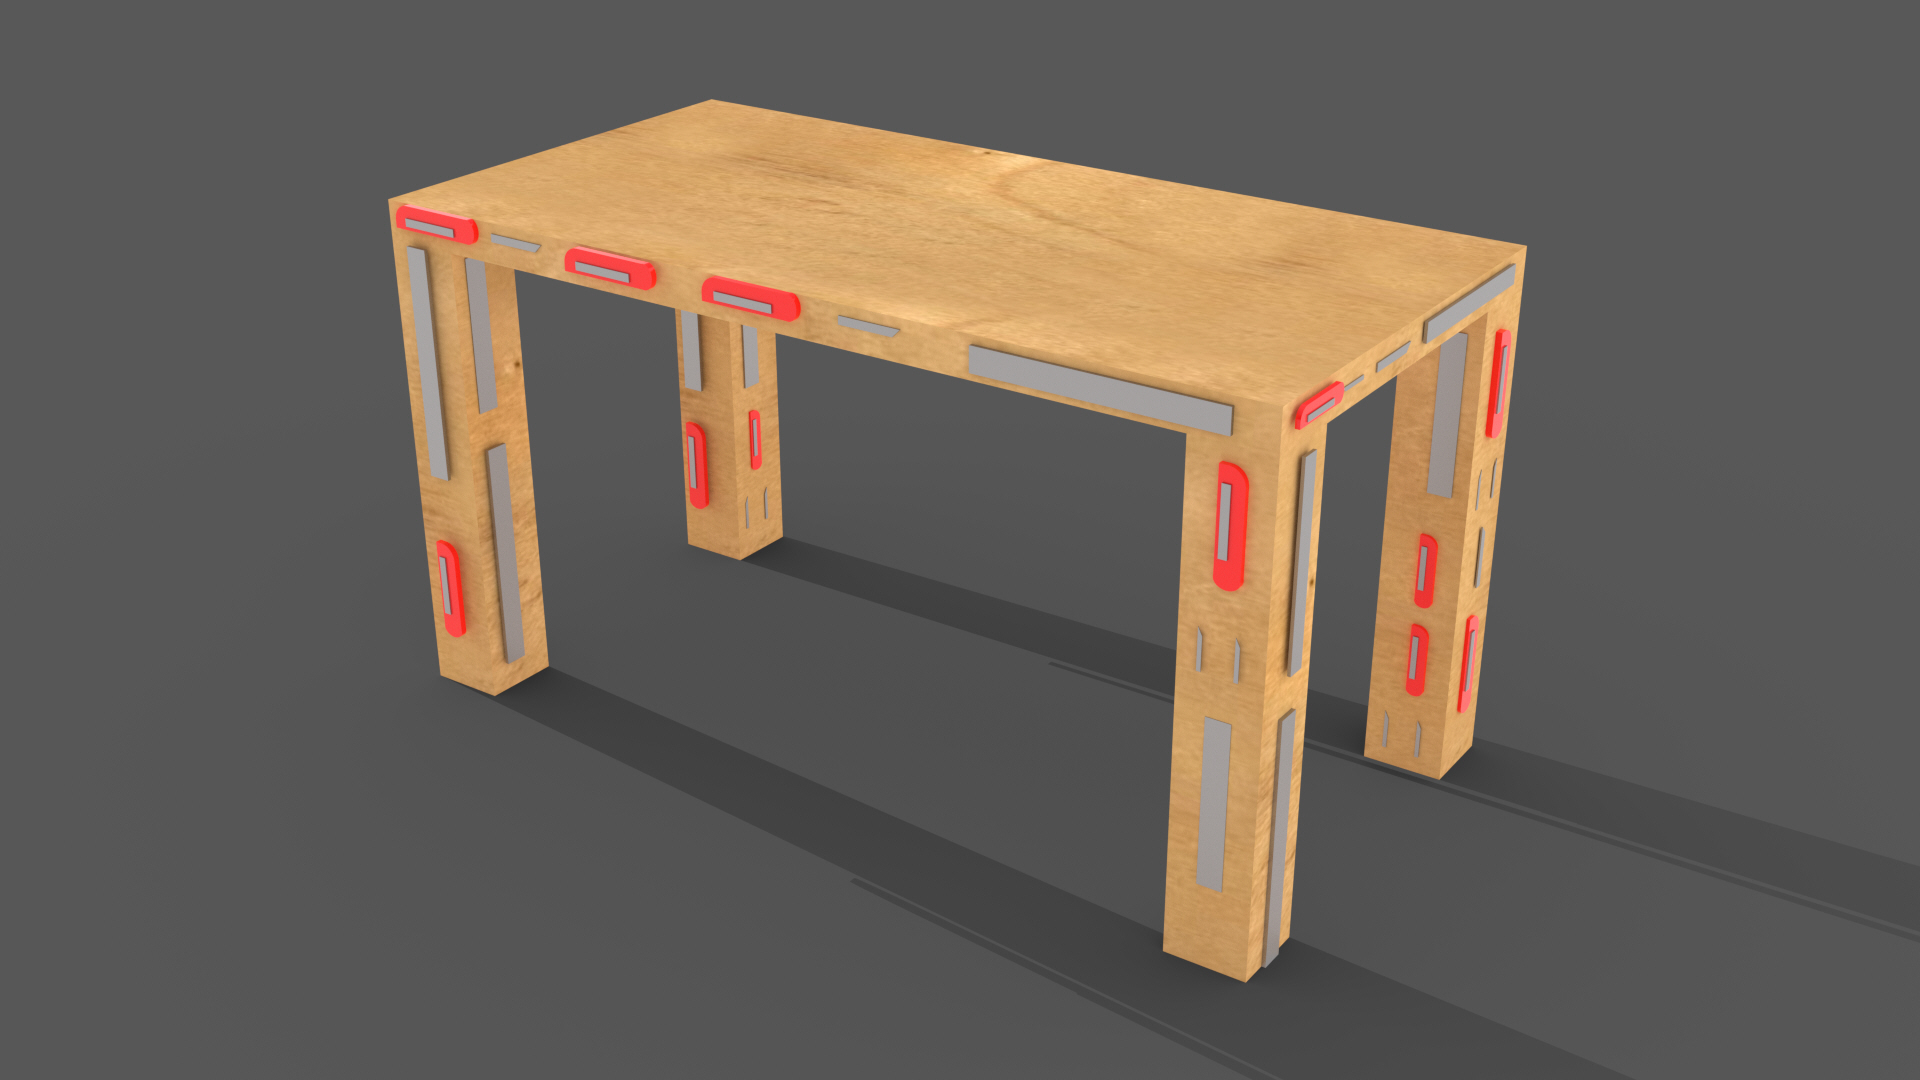
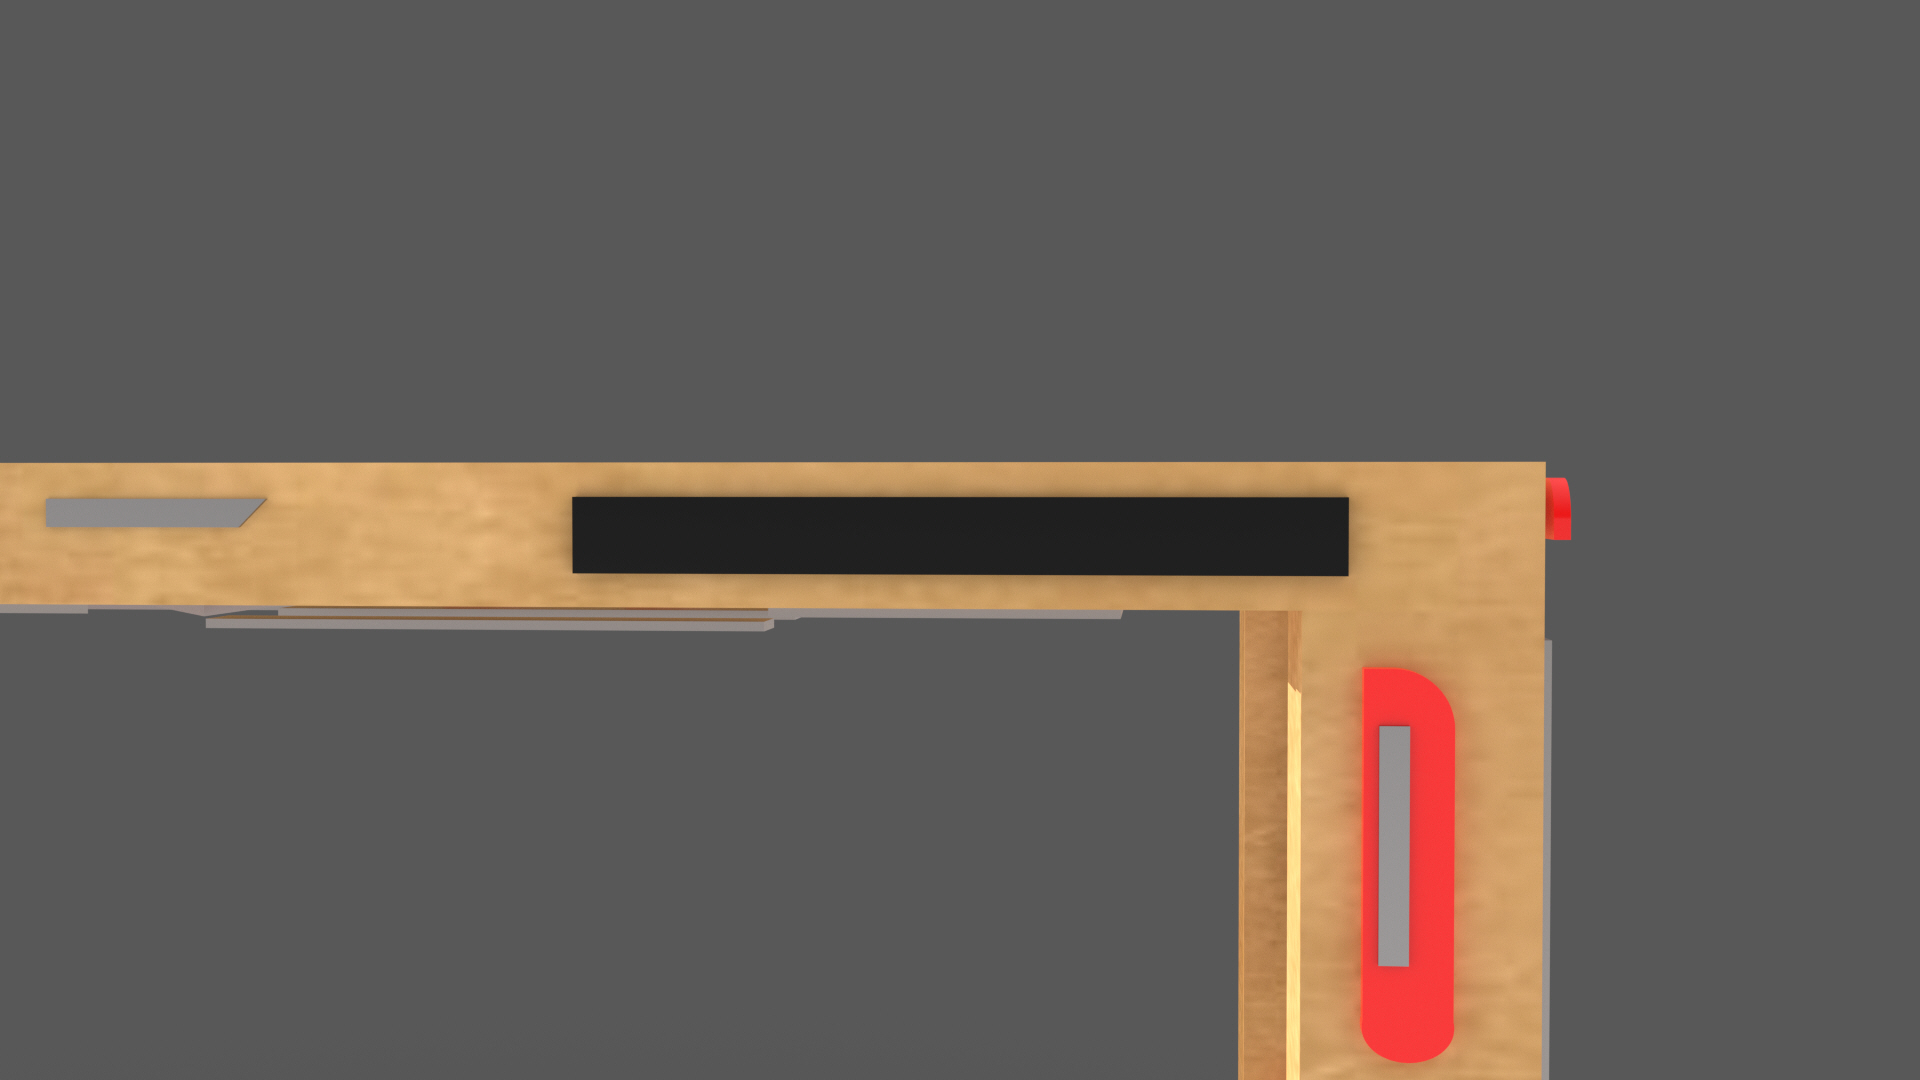
9

diff --git a/docs/encargo-1.2/index.html b/docs/encargo-1.2/index.html
@@ -4,7 +4,7 @@
 <head>
   <meta charset="utf-8">
   <meta http-equiv="x-ua-compatible" content="ie=edge">
-  <title>Encargo 0 - María Ignacia Weber - Taller de Productos 2021</title>
+  <title>Encargo 1.2 - María Ignacia Weber - Taller de Productos 2021</title>
   <meta name="viewport" content="width=device-width, initial-scale=1">
   
   <link rel="icon" href="https://ignaciaw.github.io/favicon.png">
@@ -90,7 +90,7 @@
   <h4>Docs</h4>
   <ul>
     
-    <li class="active ">
+    <li class="">
       <a href="https://ignaciaw.github.io/docs/encargo-0/">Encargo 0</a>
     </li>
     
@@ -98,7 +98,7 @@
       <a href="https://ignaciaw.github.io/docs/encargo-1/">Encargo 1</a>
     </li>
     
-    <li class="">
+    <li class="active ">
       <a href="https://ignaciaw.github.io/docs/encargo-1.2/">Encargo 1.2</a>
     </li>
     
@@ -117,63 +117,46 @@
         </div>
         <div class="col-12 col-md-9">
           
-<h1 class="title">Encargo 0</h1>
+<h1 class="title">Encargo 1.2</h1>
 <div class="content ">
-  <p>A continuación mostrare algunos proyectos personales que más me han gustado</p>
-<h1 id="mapa-mental">Mapa Mental</h1>
-<p>Descripción:
-En este mapa mental debía mostrar como soy, por lo que hice dos palmeras unidas desmostrando asi mis dos personalidades las cuales las uno a las carreras que estoy estudiando.</p>
+  <h1 id="propuesta">Propuesta</h1>
 <p><img src="/img/Mapamental.jpg" alt="Imagen Simple"></p>
-<h1 id="rube-goldberg">Rube Goldberg</h1>
-<p>Descripción:
-Este fue un encargo el cual lo debía hacer en el programa Unity, donde tenia que hacer un circuito de Rube Goldberg.
-<a href="https://youtu.be/2HsqguD7kSE">https://youtu.be/2HsqguD7kSE</a>
-
+<p>Mi propuesta es esta mesa que a través de láminas magnéticas puestas por dentro logre sujetar distintos materiales necesarios a la hora de hacer proyectos físicos. Es así como se crea esta nueva mesa de trabajo la cual contendrá distintos materiales como, cartoneros, cuchillas, destornilladores, reglas, entre otras cosas, siendo elección de cada individuo lo que ira poniendo, solo necesitando que este material sea compatible con dicha lamina magnética para que así los materiales se agarren.
+La inspiración a de este proyecto viene de la mano con la comodidad y la creación de una real mesa de trabajo, ya que, si bien existen mesas de trabajo, ni una se ve como una, por tanto, lo que quiero lograr con este proyecto es que realmente se vea como una y además que ayude a la hora de trabajar para que uno no pierda tiempo yendo a buscar dichos materiales a distintos lugares, sino que todo esté en esta mesa.
+Esta mesa servirá como mesa de trabajo como también un organizador, debido a que en las patas y en la parte inferior de esta mesa se podrá guardar cada herramienta que se usará. En la parte superior de la mesa no ira ni una lámina magnética por el hecho de que esta mesa se ocupara para hacer distintas cosas y si hay laminas ahí se podrán pegar los distintos materiales a ocupar como otras cosas, volviéndose incomoda a la hora de ocuparla.
+Nada de esta mesa se ocultará, dado que no es su funcionalidad, sin embargo, es una mesa y se podrá ocupar de distintas maneras como el usuario lo decida, por ejemplo, en un taller, en la cocina, entre otras partes, lográndose así la bi o tri funcionalidad de esta mesa de trabajo, la cual se acomoda a los distintos individuos que la ocupen.</p>
+<h1 id="materiales">Materiales</h1>
+<h1 id="lámina-magnética">Lámina magnética</h1>
+<p><img src="/img/lamina.jpg" alt="Imagen Simple">
+Su funcionalidad será fundamental, dado que gracias a esta es que se sugetaran los materiales a la mesa.</p>
+<h1 id="mesa-de-madera">Mesa de madera</h1>
+<p><img src="/img/mesas.jpg" alt="Imagen Simple">
+La base de todo será una mesa de madera para trabajar, la que se podra cortar, ensuciar, y más cosas.</p>
+<h1 id="herramientas">Herramientas</h1>
+<p>
 <link rel="stylesheet" href="/css/hugo-easy-gallery.css" />
 
 <div class="gallery caption-position-bottom caption-effect-slide hover-effect-zoom hover-transition" itemscope itemtype="http://schema.org/ImageGallery">
 				<div class="box">
 				  <figure itemprop="associatedMedia" itemscope itemtype="http://schema.org/ImageObject">
-				    <div class="img" style="background-image: url('https://ignaciaw.github.io//img/Rube//1.PNG');" >
-				      <img itemprop="thumbnail" src="https://ignaciaw.github.io//img/Rube//1.PNG" alt="1st" />
+				    <div class="img" style="background-image: url('https://ignaciaw.github.io//img/Herramientas//reg.jpg');" >
+				      <img itemprop="thumbnail" src="https://ignaciaw.github.io//img/Herramientas//reg.jpg" alt="Reg" />
 				    </div>
 			      <figcaption>
-		          <p>1st</p>
+		          <p>Reg</p>
 			      </figcaption>
-				    <a href="https://ignaciaw.github.io//img/Rube//1.PNG" itemprop="contentUrl"></a>
+				    <a href="https://ignaciaw.github.io//img/Herramientas//reg.jpg" itemprop="contentUrl"></a>
 				  </figure>
 				</div>
 				<div class="box">
 				  <figure itemprop="associatedMedia" itemscope itemtype="http://schema.org/ImageObject">
-				    <div class="img" style="background-image: url('https://ignaciaw.github.io//img/Rube//2.PNG');" >
-				      <img itemprop="thumbnail" src="https://ignaciaw.github.io//img/Rube//2.PNG" alt="2nd" />
+				    <div class="img" style="background-image: url('https://ignaciaw.github.io//img/Herramientas//tiptop.jpg');" >
+				      <img itemprop="thumbnail" src="https://ignaciaw.github.io//img/Herramientas//tiptop.jpg" alt="Tiptop" />
 				    </div>
 			      <figcaption>
-		          <p>2nd</p>
+		          <p>Tiptop</p>
 			      </figcaption>
-				    <a href="https://ignaciaw.github.io//img/Rube//2.PNG" itemprop="contentUrl"></a>
-				  </figure>
-				</div>
-				<div class="box">
-				  <figure itemprop="associatedMedia" itemscope itemtype="http://schema.org/ImageObject">
-				    <div class="img" style="background-image: url('https://ignaciaw.github.io//img/Rube//3.PNG');" >
-				      <img itemprop="thumbnail" src="https://ignaciaw.github.io//img/Rube//3.PNG" alt="3rd" />
-				    </div>
-			      <figcaption>
-		          <p>3rd</p>
-			      </figcaption>
-				    <a href="https://ignaciaw.github.io//img/Rube//3.PNG" itemprop="contentUrl"></a>
-				  </figure>
-				</div>
-				<div class="box">
-				  <figure itemprop="associatedMedia" itemscope itemtype="http://schema.org/ImageObject">
-				    <div class="img" style="background-image: url('https://ignaciaw.github.io//img/Rube//4.PNG');" >
-				      <img itemprop="thumbnail" src="https://ignaciaw.github.io//img/Rube//4.PNG" alt="4th" />
-				    </div>
-			      <figcaption>
-		          <p>4th</p>
-			      </figcaption>
-				    <a href="https://ignaciaw.github.io//img/Rube//4.PNG" itemprop="contentUrl"></a>
+				    <a href="https://ignaciaw.github.io//img/Herramientas//tiptop.jpg" itemprop="contentUrl"></a>
 				  </figure>
 				</div>
 </div>
@@ -237,45 +220,33 @@ Este fue un encargo el cual lo debía hacer en el programa Unity, donde tenia qu
     </div>
     </div>
 </div>
-</p>
-<h1 id="alcancia-arreglada">Alcancia Arreglada</h1>
-<p>Descripción:
-Esta alcancia la pinte con acrilico para así cambiar su anterior estilo a algo que me gustará más a mi.</p>
+
+Herramientas es lo principal que se guardara en esta mesa, como cartoneros, cuchillas, destornilladores, y más cosas, sin embargo, con que sea compatible con la lámina magnética podran ir diversas cosas más.</p>
+<h2 id="modelado-3d">Modelado 3d</h2>
 <p>
 
 
 <div class="gallery caption-position-bottom caption-effect-slide hover-effect-zoom hover-transition" itemscope itemtype="http://schema.org/ImageGallery">
 				<div class="box">
 				  <figure itemprop="associatedMedia" itemscope itemtype="http://schema.org/ImageObject">
-				    <div class="img" style="background-image: url('https://ignaciaw.github.io//img/Chancho//1.jpeg');" >
-				      <img itemprop="thumbnail" src="https://ignaciaw.github.io//img/Chancho//1.jpeg" alt="1st" />
+				    <div class="img" style="background-image: url('https://ignaciaw.github.io//img/Mod-mesa//mesa%202.jpg');" >
+				      <img itemprop="thumbnail" src="https://ignaciaw.github.io//img/Mod-mesa//mesa%202.jpg" alt="Mesa 2" />
 				    </div>
 			      <figcaption>
-		          <p>1st</p>
+		          <p>Mesa 2</p>
 			      </figcaption>
-				    <a href="https://ignaciaw.github.io//img/Chancho//1.jpeg" itemprop="contentUrl"></a>
+				    <a href="https://ignaciaw.github.io//img/Mod-mesa//mesa%202.jpg" itemprop="contentUrl"></a>
 				  </figure>
 				</div>
 				<div class="box">
 				  <figure itemprop="associatedMedia" itemscope itemtype="http://schema.org/ImageObject">
-				    <div class="img" style="background-image: url('https://ignaciaw.github.io//img/Chancho//2.jpeg');" >
-				      <img itemprop="thumbnail" src="https://ignaciaw.github.io//img/Chancho//2.jpeg" alt="2nd" />
+				    <div class="img" style="background-image: url('https://ignaciaw.github.io//img/Mod-mesa//mesa.jpg');" >
+				      <img itemprop="thumbnail" src="https://ignaciaw.github.io//img/Mod-mesa//mesa.jpg" alt="Mesa" />
 				    </div>
 			      <figcaption>
-		          <p>2nd</p>
+		          <p>Mesa</p>
 			      </figcaption>
-				    <a href="https://ignaciaw.github.io//img/Chancho//2.jpeg" itemprop="contentUrl"></a>
-				  </figure>
-				</div>
-				<div class="box">
-				  <figure itemprop="associatedMedia" itemscope itemtype="http://schema.org/ImageObject">
-				    <div class="img" style="background-image: url('https://ignaciaw.github.io//img/Chancho//3.jpeg');" >
-				      <img itemprop="thumbnail" src="https://ignaciaw.github.io//img/Chancho//3.jpeg" alt="3rd" />
-				    </div>
-			      <figcaption>
-		          <p>3rd</p>
-			      </figcaption>
-				    <a href="https://ignaciaw.github.io//img/Chancho//3.jpeg" itemprop="contentUrl"></a>
+				    <a href="https://ignaciaw.github.io//img/Mod-mesa//mesa.jpg" itemprop="contentUrl"></a>
 				  </figure>
 				</div>
 </div>
@@ -283,40 +254,15 @@ Esta alcancia la pinte con acrilico para así cambiar su anterior estilo a algo 
 
 
 </p>
-<h1 id="lanas-nativas">Lanas Nativas</h1>
-<p>Descripción:
-Este es mi emprendimiento personal el cual partió en cuarentena. Vendo lana de oveja 100% natural traída del sur de Chile.
-
-
-
-<div class="gallery caption-position-bottom caption-effect-slide hover-effect-zoom hover-transition" itemscope itemtype="http://schema.org/ImageGallery">
-				<div class="box">
-				  <figure itemprop="associatedMedia" itemscope itemtype="http://schema.org/ImageObject">
-				    <div class="img" style="background-image: url('https://ignaciaw.github.io//img/Lana//thumbnail_Image%20%281%29.jpg');" >
-				      <img itemprop="thumbnail" src="https://ignaciaw.github.io//img/Lana//thumbnail_Image%20%281%29.jpg" alt="Thumbnail image (1)" />
-				    </div>
-			      <figcaption>
-		          <p>Thumbnail image (1)</p>
-			      </figcaption>
-				    <a href="https://ignaciaw.github.io//img/Lana//thumbnail_Image%20%281%29.jpg" itemprop="contentUrl"></a>
-				  </figure>
-				</div>
-				<div class="box">
-				  <figure itemprop="associatedMedia" itemscope itemtype="http://schema.org/ImageObject">
-				    <div class="img" style="background-image: url('https://ignaciaw.github.io//img/Lana//thumbnail_Image%20%282%29.jpg');" >
-				      <img itemprop="thumbnail" src="https://ignaciaw.github.io//img/Lana//thumbnail_Image%20%282%29.jpg" alt="Thumbnail image (2)" />
-				    </div>
-			      <figcaption>
-		          <p>Thumbnail image (2)</p>
-			      </figcaption>
-				    <a href="https://ignaciaw.github.io//img/Lana//thumbnail_Image%20%282%29.jpg" itemprop="contentUrl"></a>
-				  </figure>
-				</div>
-</div>
- 
-
-
-</p>
+<h2 id="referentes">Referentes</h2>
+<p>Desingboom
+<img src="/img/referente-1.jpg" alt="Imagen Simple">
+<a href="https://www.designboom.com/design/ying-chang-grid-system-furniture-07-02-2014/">https://www.designboom.com/design/ying-chang-grid-system-furniture-07-02-2014/</a></p>
+<p>Elegí este referente, debido a que la mesa que diseñaron sigue mi misma línea, dado que es una mesa con almacenajes, los cuales se ven y no estan escondidos.</p>
+<p>FastCompany-2020
+<img src="/img/referente-2.jpg" alt="Imagen Simple">
+<a href="https://www.fastcompany.com/90584520/these-harvard-grads-want-to-turn-your-doodles-into-gorgeous-custom-furniture">https://www.fastcompany.com/90584520/these-harvard-grads-want-to-turn-your-doodles-into-gorgeous-custom-furniture</a>
+Elegí este segundo referente por esa mesa de la imagen, la cual tiene una mesa pequeña levantada, creo que tambien sigue mi misma línea por el hecho de que en esa mesa podría ir más herramientas a usar las cuales no le molestaran en su mesa de trabajo, ya que estaran en esa pequeña mesa levantada.</p>
 
 </div>
 </div>

diff --git a/docs/index.html b/docs/index.html
@@ -99,6 +99,10 @@
     </li>
     
     <li class="">
+      <a href="https://ignaciaw.github.io/docs/encargo-1.2/">Encargo 1.2</a>
+    </li>
+    
+    <li class="">
       <a href="https://ignaciaw.github.io/docs/ejemplo/">Ejemplo Shortcodes</a>
     </li>
     
@@ -134,6 +138,13 @@
   
   <h2 class="title-summary"><a href="https://ignaciaw.github.io/docs/encargo-1/">Encargo 1</a></h2>
   <p>En este encargo se pidió mostrar tres proyectos personales que nos representaran.</p>
+</div>
+
+
+<div class="summary mb-2">
+  
+  <h2 class="title-summary"><a href="https://ignaciaw.github.io/docs/encargo-1.2/">Encargo 1.2</a></h2>
+  <p>Propuesta Mi propuesta es esta mesa que a través de láminas magnéticas puestas por dentro logre sujetar distintos materiales necesarios a la hora de hacer proyectos físicos. Es así como se crea esta nueva mesa de trabajo la cual contendrá distintos materiales como, cartoneros, cuchillas, destornilladores, reglas, entre otras cosas, siendo elección de cada individuo lo que ira poniendo, solo necesitando que este material sea compatible con dicha lamina magnética para que así los materiales se agarren.</p>
 </div>
 
 

diff --git a/docs/ejemplo/index.html b/docs/ejemplo/index.html
@@ -98,6 +98,10 @@
       <a href="https://ignaciaw.github.io/docs/encargo-1/">Encargo 1</a>
     </li>
     
+    <li class="">
+      <a href="https://ignaciaw.github.io/docs/encargo-1.2/">Encargo 1.2</a>
+    </li>
+    
     <li class="active ">
       <a href="https://ignaciaw.github.io/docs/ejemplo/">Ejemplo Shortcodes</a>
     </li>

diff --git a/docs/encargo-1/index.html b/docs/encargo-1/index.html
@@ -99,6 +99,10 @@
     </li>
     
     <li class="">
+      <a href="https://ignaciaw.github.io/docs/encargo-1.2/">Encargo 1.2</a>
+    </li>
+    
+    <li class="">
       <a href="https://ignaciaw.github.io/docs/ejemplo/">Ejemplo Shortcodes</a>
     </li>
     

diff --git a/docs/markdown/index.html b/docs/markdown/index.html
@@ -99,6 +99,10 @@
     </li>
     
     <li class="">
+      <a href="https://ignaciaw.github.io/docs/encargo-1.2/">Encargo 1.2</a>
+    </li>
+    
+    <li class="">
       <a href="https://ignaciaw.github.io/docs/ejemplo/">Ejemplo Shortcodes</a>
     </li>
     
